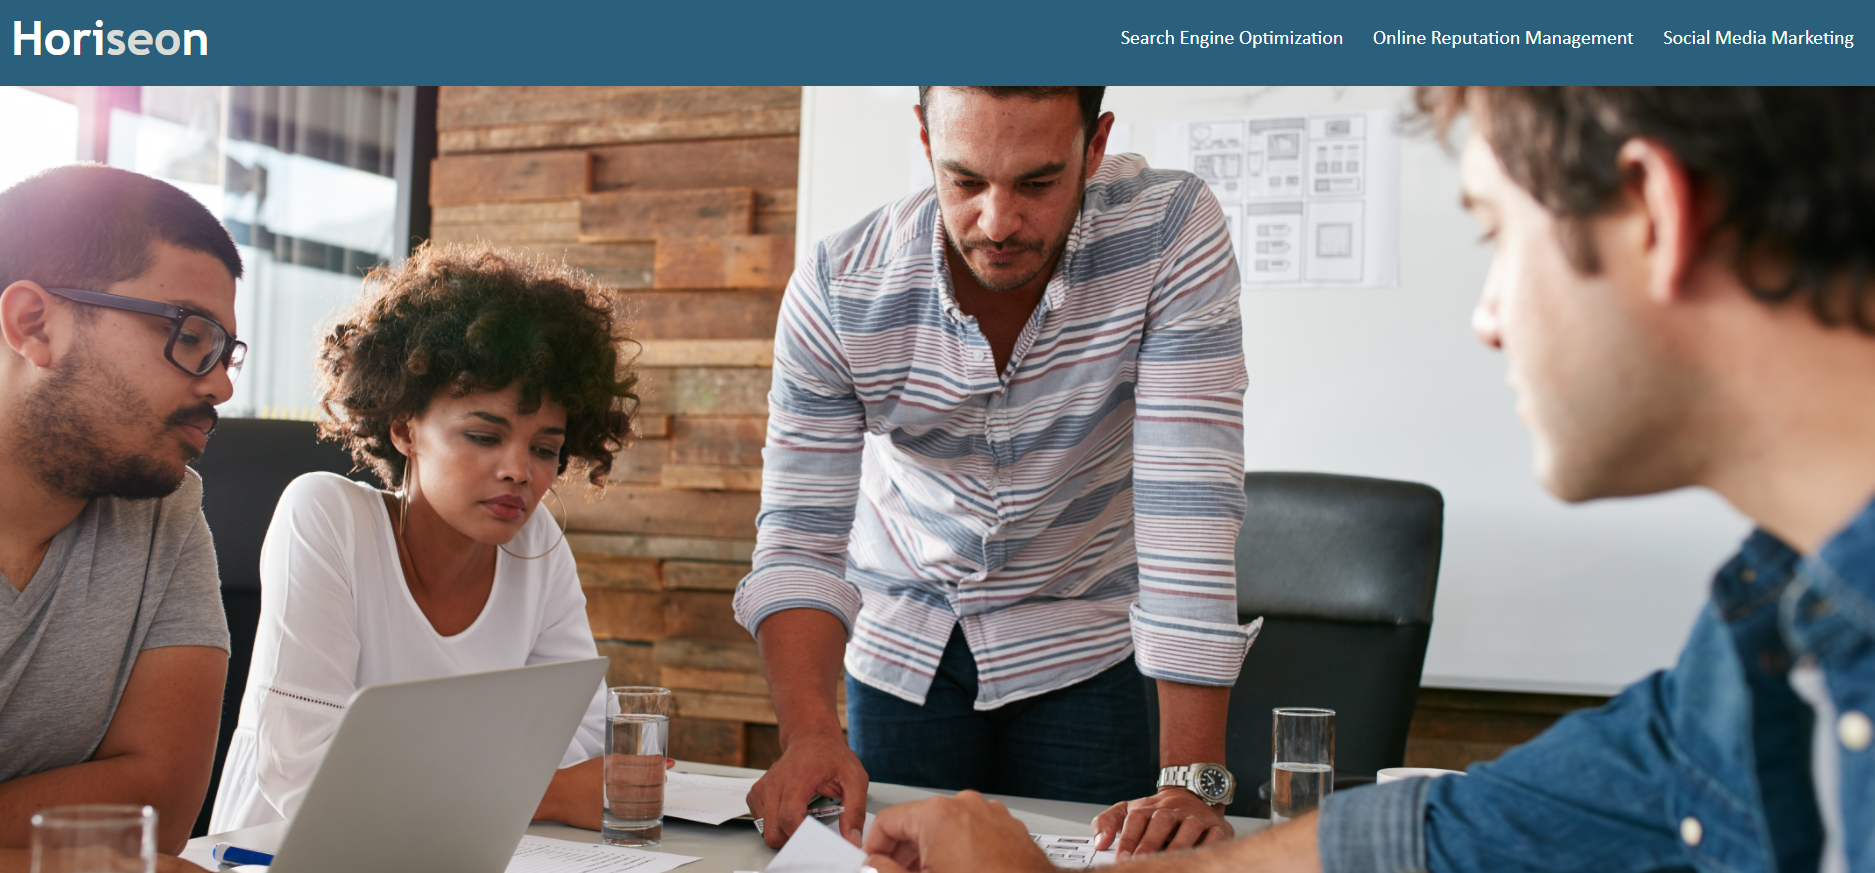
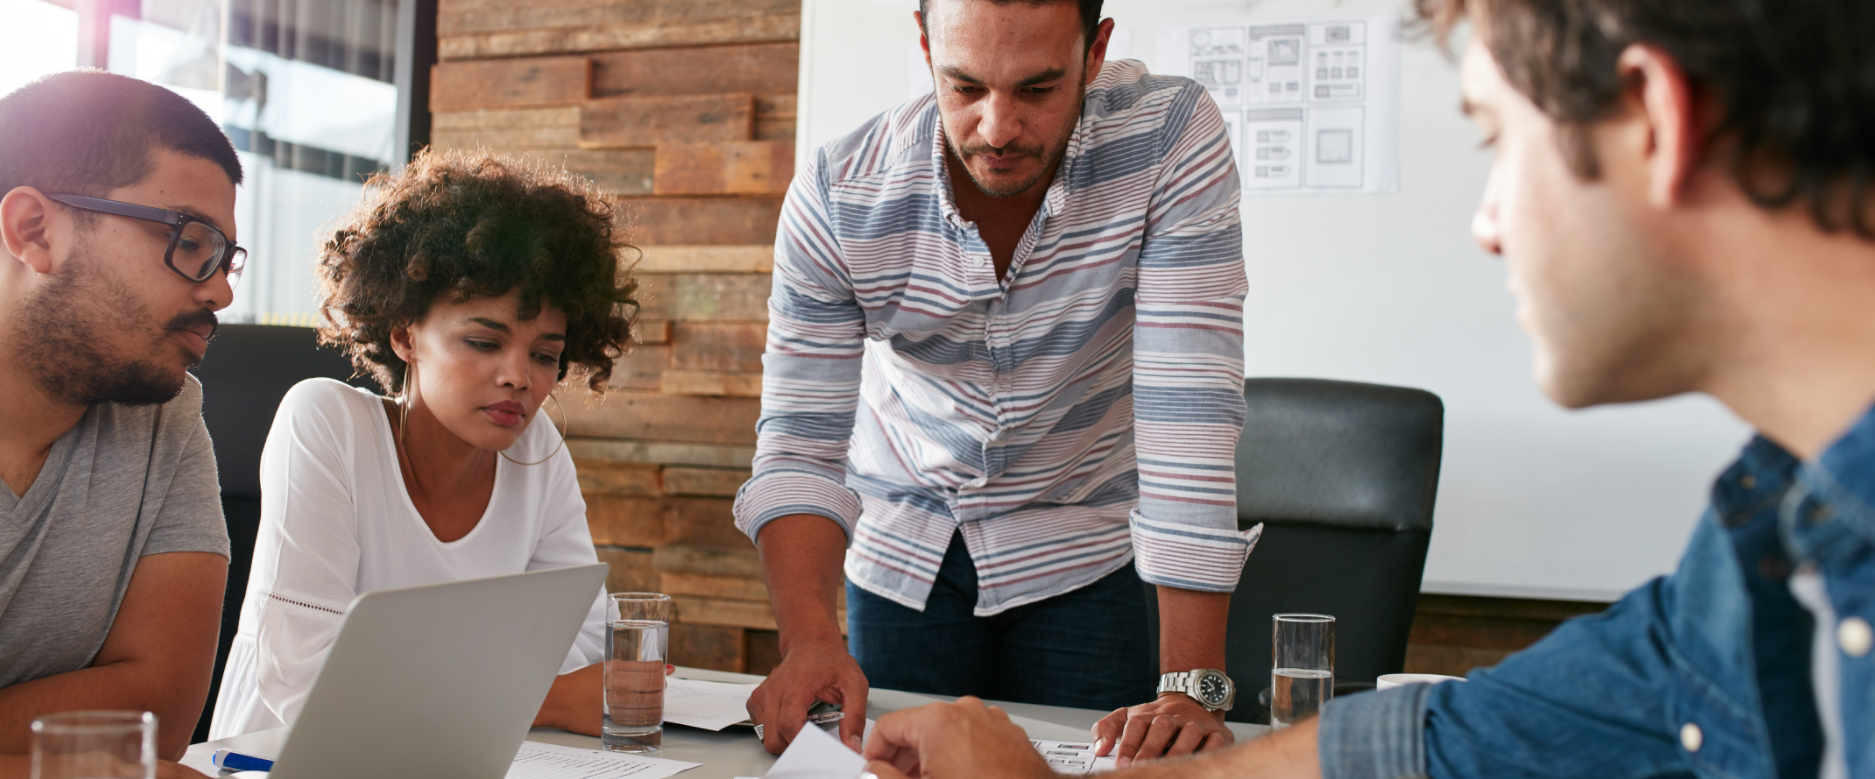
added about me text. wip font sizing

diff --git a/assets/css/style.css b/assets/css/style.css
@@ -2,11 +2,31 @@ html {
   font-size: 10px;
 }
 
+/* to do style make font sizes responsive maybe different sizes
+for different viewports. make h1 animated for desktop */
+/* This ection targets using type selector cos these elements maybe be repeated 
+at top to make it easier to see whats happening */
+h1 {
+  font-size: 10rem;
+}
+
+h2 {
+  font-size: 6rem;
+}
+
+h3 {
+  font-size: 4rem;
+}
+
+p {
+  font-size: 2rem;
+}
+
 .hero {
   background-image: linear-gradient(
       to bottom,
-      rgba(0, 0, 0, 0),
-      rgba(0, 0, 0, 0.4)
+      rgba(0, 0, 0, 0.3),
+      rgba(0, 0, 0, 0.8)
     ),
     url(../images/background-image.jpg);
   height: 100vh;
@@ -20,20 +40,6 @@ html {
   height: 100%;
 }
 
-/* to do style make font sizes responsive maybe different sizes
-for different viewports. make h1 animated for desktop */
-h1 {
-  font-size: 10rem;
-}
-
-h2 {
-  font-size: 6rem;
-}
-
-h3 {
-  font-size: 4rem;
-}
-
 .navbar-container {
   display: flex;
   flex-basis: 15%;
@@ -42,6 +48,7 @@ h3 {
   flex-grow: 1;
 }
 
+/* to do figure out how to make fixed and fit inside box */
 .navbar-items-container {
   display: flex;
   flex-direction: column;
@@ -51,17 +58,16 @@ h3 {
 
 .navbar-container ul li {
   margin: 1rem;
+  font-size: 2rem;
 }
 
 .main-container {
   display: flex;
   flex-direction: column;
-  border: 10px solid green;
   flex-grow: 1;
 }
 
 .about-container {
-  background-color: yellow;
   padding: 1rem;
   margin-bottom: 1rem;
 }

diff --git a/index.html b/index.html
@@ -77,15 +77,14 @@
           </div>
           <div class="about-me-info-container">
             <p>
-              Lorem ipsum, dolor sit amet consectetur adipisicing elit. Enim
-              ratione voluptate odio maxime illo culpa quia quod sapiente,
-              voluptates ipsa sed hic exercitationem dolores iure tempora.
+              My name is Soumeya Hassan. I live in Birmingham UK with my family.
+              I recently started to learn to code. You can check out some off my
+              cool work in my portfolio.
             </p>
             <p>
-              Lorem ipsum dolor sit amet consectetur, adipisicing elit.
-              Deserunt, dolorum dolores nesciunt suscipit unde veniam quae nemo,
-              aut nam quasi quo impedit non distinctio nisi libero itaque,
-              fugiat ut maxime.
+              Please excuse the mugshot looking picture of me it was the only
+              one I had on my computer. Hopeful when we are free to travel I'll
+              take a better one of myself.
             </p>
           </div>
         </section>
